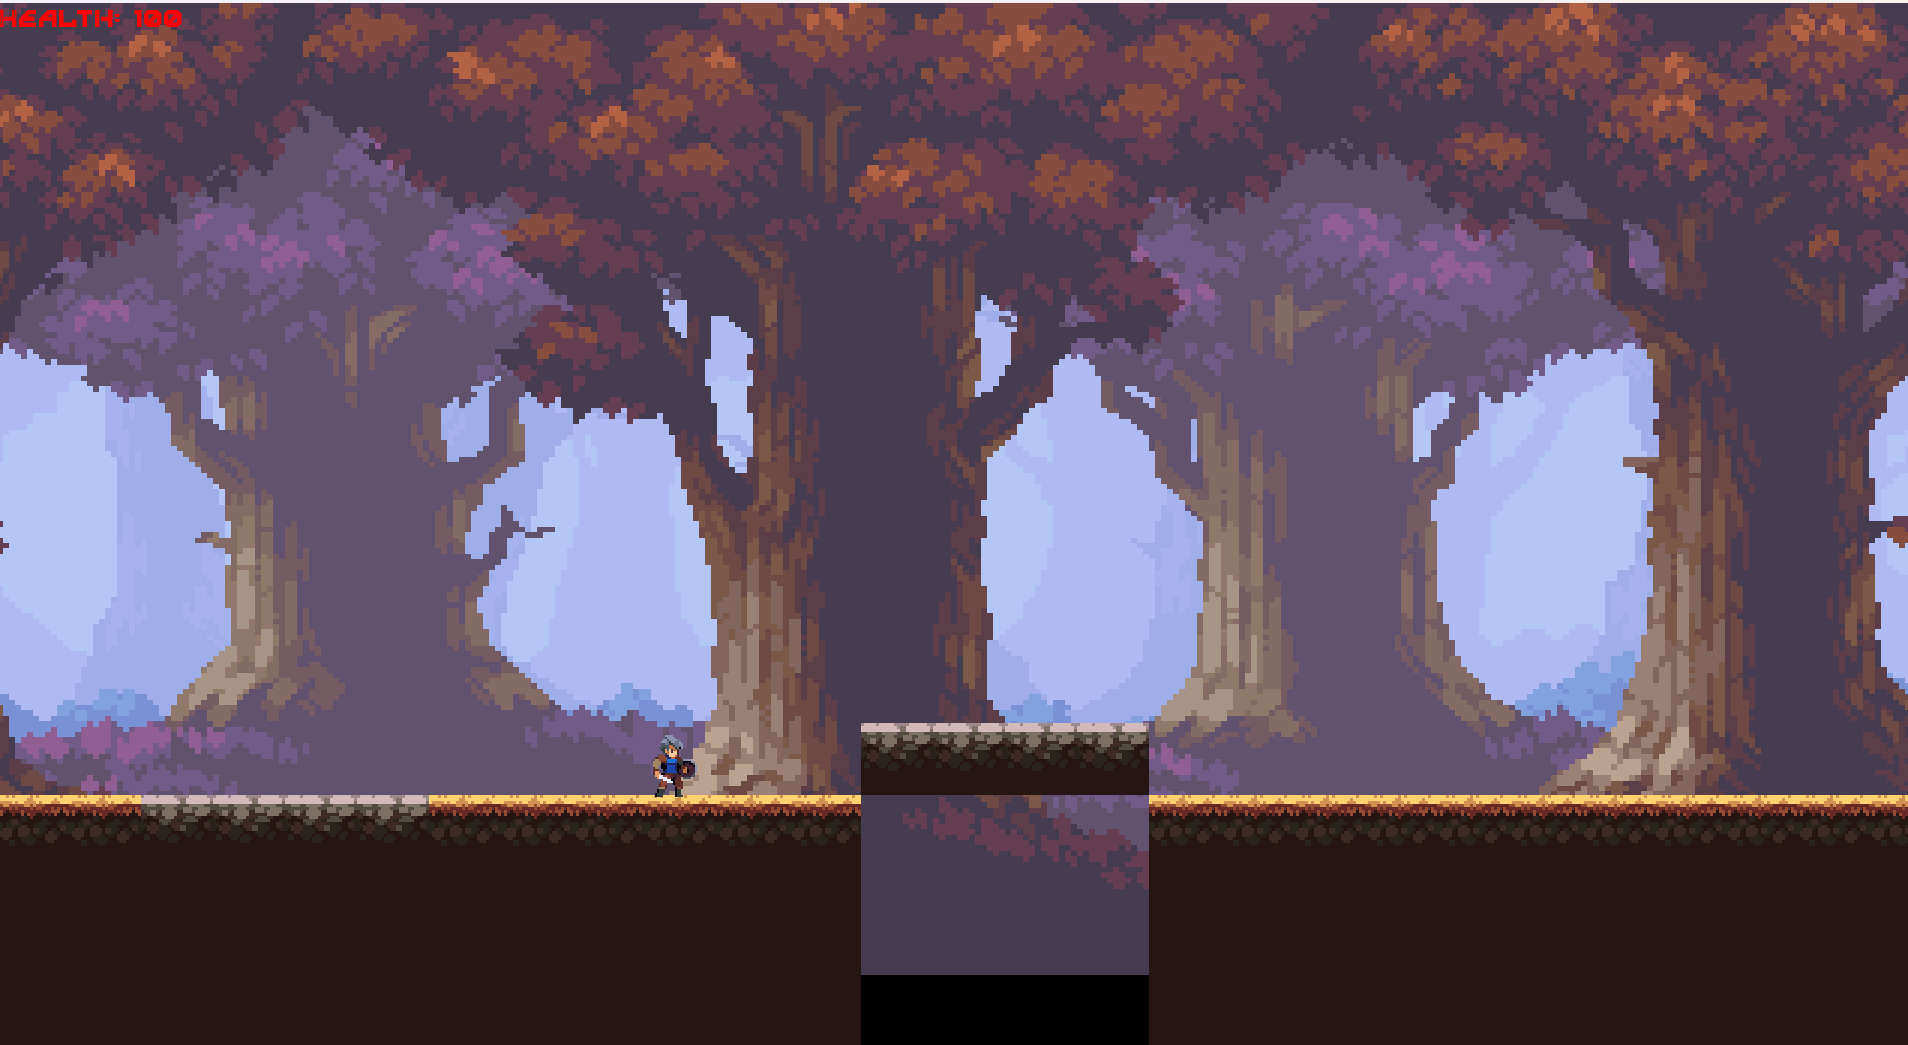
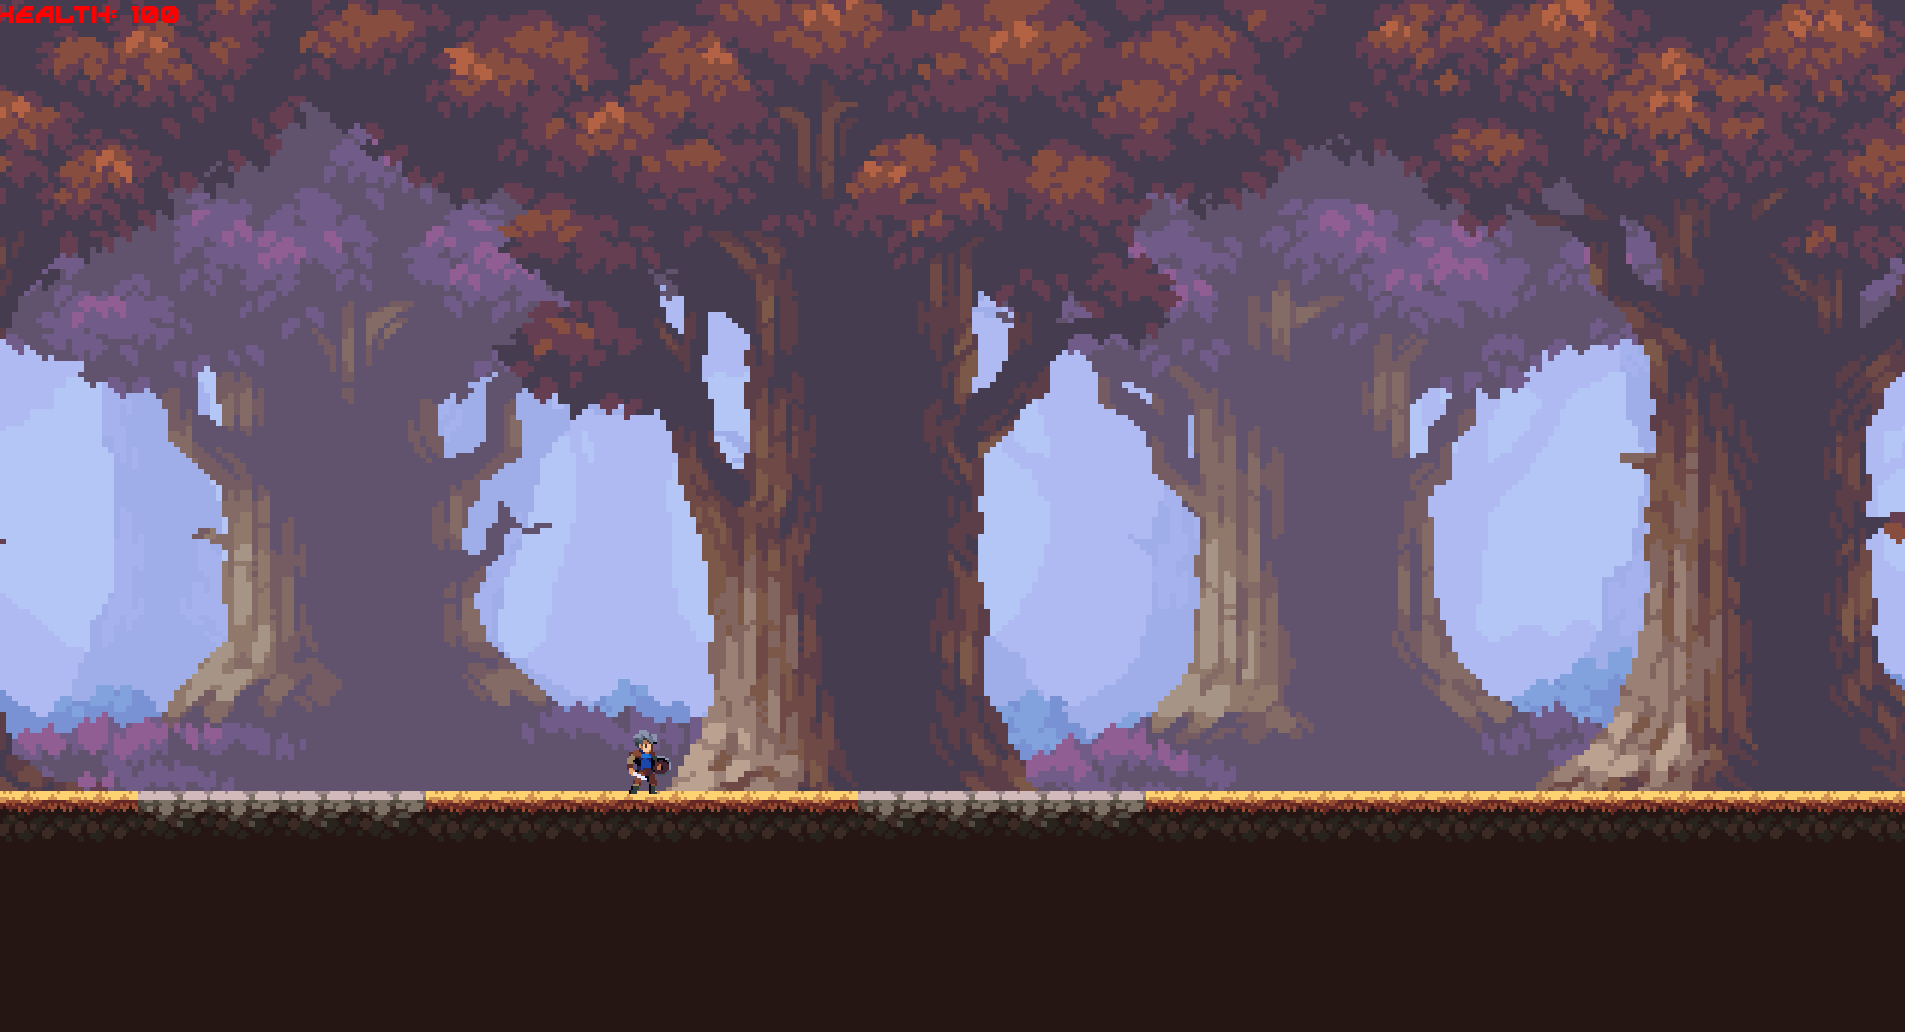
updated screenshots

diff --git a/SideScrollerShooter/LevelGenerator.cpp b/SideScrollerShooter/LevelGenerator.cpp
@@ -15,12 +15,12 @@ std::vector<std::vector<std::string>> level1  {
 	{ "BLANK", "BLANK", "BLANK", "BLANK", "BLANK", "BLANK", "BLANK", "BLANK", "BLANK", "BLANK", "BLANK", "BLANK", "BLANK", "BLANK", "BLANK", "BLANK", "BLANK", "BLANK", "BLANK", "BLANK", "BLANK", "BLANK", "BLANK", "BLANK", "BLANK", "BLANK", "BLANK", "BLANK", "BLANK", "BLANK", "BLANK", "BLANK", "BLANK", "BLANK", "BLANK", "BLANK", "BLANK", "BLANK", "BLANK", "BLANK", "BLANK", "BLANK", "BLANK", "BLANK", "BLANK", "BLANK", "BLANK", "BLANK", "BLANK", "BLANK", },
 	{ "BLANK", "BLANK", "BLANK", "BLANK", "BLANK", "BLANK", "BLANK", "BLANK", "BLANK", "BLANK", "BLANK", "BLANK", "BLANK", "BLANK", "BLANK", "BLANK", "BLANK", "BLANK", "BLANK", "BLANK", "BLANK", "BLANK", "BLANK", "BLANK", "BLANK", "BLANK", "BLANK", "BLANK", "BLANK", "BLANK", "BLANK", "BLANK", "BLANK", "BLANK", "BLANK", "BLANK", "BLANK", "BLANK", "BLANK", "BLANK", "BLANK", "BLANK", "BLANK", "BLANK", "BLANK", "BLANK", "BLANK", "BLANK", "BLANK", "BLANK", },
 	{ "BLANK", "BLANK", "BLANK", "BLANK", "BLANK", "BLANK", "BLANK", "BLANK", "BLANK", "BLANK", "BLANK", "BLANK", "BLANK", "BLANK", "BLANK", "BLANK", "BLANK", "BLANK", "BLANK", "BLANK", "BLANK", "BLANK", "BLANK", "BLANK", "BLANK", "BLANK", "BLANK", "BLANK", "BLANK", "BLANK", "BLANK", "BLANK", "BLANK", "BLANK", "BLANK", "BLANK", "BLANK", "BLANK", "BLANK", "BLANK", "BLANK", "BLANK", "BLANK", "BLANK", "BLANK", "BLANK", "BLANK", "BLANK", "BLANK", "BLANK", },
-	{ "BLANK", "BLANK", "BLANK", "BLANK",  "BLANK", "BLANK", "BLANK", "BLANK", "BLANK", "BLANK", "BLANK", "BLANK", "FLOOR_2", "FLOOR_2", "FLOOR_2", "FLOOR_2", "BLANK", "BLANK", "BLANK", "BLANK", "BLANK", "BLANK", "BLANK", "BLANK", "BLANK", "BLANK", "BLANK", "BLANK", "BLANK", "BLANK", "BLANK", "BLANK", "BLANK", "BLANK", "BLANK", "BLANK", "BLANK", "BLANK", "BLANK", "BLANK", "BLANK", "BLANK", "BLANK", "BLANK", "BLANK", "BLANK", "BLANK", "BLANK", "BLANK", "BLANK", },
+	{ "BLANK", "BLANK", "BLANK", "BLANK",  "BLANK", "BLANK", "BLANK", "BLANK", "BLANK", "BLANK", "BLANK", "BLANK", "BLANK", "BLANK", "BLANK", "BLANK", "BLANK", "BLANK", "BLANK", "BLANK", "BLANK", "BLANK", "BLANK", "BLANK", "BLANK", "BLANK", "BLANK", "BLANK", "BLANK", "BLANK", "BLANK", "BLANK", "BLANK", "BLANK", "BLANK", "BLANK", "BLANK", "BLANK", "BLANK", "BLANK", "BLANK", "BLANK", "BLANK", "BLANK", "BLANK", "BLANK", "BLANK", "BLANK", "BLANK", "BLANK", },
 	
-	{ "FLOOR_1","FLOOR_1","FLOOR_2","FLOOR_2","FLOOR_2","FLOOR_2","FLOOR_1","FLOOR_1","FLOOR_1","FLOOR_1","FLOOR_1","FLOOR_1","BLANK","BLANK","BLANK","BLANK","FLOOR_1","FLOOR_1","FLOOR_1","FLOOR_1","FLOOR_1","FLOOR_1","FLOOR_1","FLOOR_1","FLOOR_1","FLOOR_1","FLOOR_1","FLOOR_1","FLOOR_1","FLOOR_1","FLOOR_1","FLOOR_1","FLOOR_1","FLOOR_1","FLOOR_1","FLOOR_1","FLOOR_1","FLOOR_1","FLOOR_1","FLOOR_1","FLOOR_1","FLOOR_1","FLOOR_1","FLOOR_1","FLOOR_1","FLOOR_1","FLOOR_1","FLOOR_1","FLOOR_1","FLOOR_1_BORDER_RIGHT"},
-	{ "DIRT", "DIRT", "DIRT", "DIRT", "DIRT", "DIRT", "DIRT", "DIRT", "DIRT", "DIRT", "DIRT", "DIRT", "BLANK", "BLANK", "BLANK", "BLANK", "DIRT", "DIRT", "DIRT", "DIRT", "DIRT", "DIRT", "DIRT", "DIRT", "DIRT", "DIRT", "DIRT", "DIRT", "DIRT", "DIRT" , "DIRT" , "DIRT" , "DIRT" , "DIRT" , "DIRT" , "DIRT" , "DIRT" , "DIRT" , "DIRT" , "DIRT" , "DIRT" , "DIRT" , "DIRT" , "DIRT" , "DIRT" , "DIRT" , "DIRT" , "DIRT" , "DIRT" },
-	{ "DIRT", "DIRT", "DIRT", "DIRT", "DIRT", "DIRT", "DIRT", "DIRT", "DIRT", "DIRT", "DIRT", "DIRT", "BLANK", "BLANK", "BLANK", "BLANK", "DIRT", "DIRT", "DIRT", "DIRT", "DIRT", "DIRT", "DIRT", "DIRT", "DIRT", "DIRT", "DIRT", "DIRT", "DIRT", "DIRT" , "DIRT" , "DIRT" , "DIRT" , "DIRT" , "DIRT" , "DIRT" , "DIRT" , "DIRT" , "DIRT" , "DIRT" , "DIRT" , "DIRT" , "DIRT" , "DIRT" , "DIRT" , "DIRT" , "DIRT" , "DIRT" , "DIRT" },
-	{ "DIRT", "DIRT", "DIRT", "DIRT", "DIRT", "DIRT", "DIRT", "DIRT", "DIRT", "DIRT", "DIRT", "DIRT", "BLANK", "BLANK", "BLANK", "BLANK", "DIRT", "DIRT", "DIRT", "DIRT", "DIRT", "DIRT", "DIRT", "DIRT", "DIRT", "DIRT", "DIRT", "DIRT", "DIRT", "DIRT" , "DIRT" , "DIRT" , "DIRT" , "DIRT" , "DIRT" , "DIRT" , "DIRT" , "DIRT" , "DIRT" , "DIRT" , "DIRT" , "DIRT" , "DIRT" , "DIRT" , "DIRT" , "DIRT" , "DIRT" , "DIRT" , "DIRT" },
+	{ "FLOOR_1","FLOOR_1","FLOOR_2","FLOOR_2","FLOOR_2","FLOOR_2","FLOOR_1","FLOOR_1","FLOOR_1","FLOOR_1","FLOOR_1","FLOOR_1","FLOOR_2","FLOOR_2","FLOOR_2","FLOOR_2","FLOOR_1","FLOOR_1","FLOOR_1","FLOOR_1","FLOOR_1","FLOOR_1","FLOOR_1","FLOOR_1","FLOOR_1","FLOOR_1","FLOOR_1","FLOOR_1","FLOOR_1","FLOOR_1","FLOOR_1","FLOOR_1","FLOOR_1","FLOOR_1","FLOOR_1","FLOOR_1","FLOOR_1","FLOOR_1","FLOOR_1","FLOOR_1","FLOOR_1","FLOOR_1","FLOOR_1","FLOOR_1","FLOOR_1","FLOOR_1","FLOOR_1","FLOOR_1","FLOOR_1","FLOOR_1_BORDER_RIGHT"},
+	{ "DIRT", "DIRT", "DIRT", "DIRT", "DIRT", "DIRT", "DIRT", "DIRT", "DIRT", "DIRT", "DIRT", "DIRT", "DIRT", "DIRT", "DIRT", "DIRT", "DIRT", "DIRT", "DIRT", "DIRT", "DIRT", "DIRT", "DIRT", "DIRT", "DIRT", "DIRT", "DIRT", "DIRT", "DIRT", "DIRT" , "DIRT" , "DIRT" , "DIRT" , "DIRT" , "DIRT" , "DIRT" , "DIRT" , "DIRT" , "DIRT" , "DIRT" , "DIRT" , "DIRT" , "DIRT" , "DIRT" , "DIRT" , "DIRT" , "DIRT" , "DIRT" , "DIRT" },
+	{ "DIRT", "DIRT", "DIRT", "DIRT", "DIRT", "DIRT", "DIRT", "DIRT", "DIRT", "DIRT", "DIRT", "DIRT", "DIRT", "DIRT", "DIRT", "DIRT", "DIRT", "DIRT", "DIRT", "DIRT", "DIRT", "DIRT", "DIRT", "DIRT", "DIRT", "DIRT", "DIRT", "DIRT", "DIRT", "DIRT" , "DIRT" , "DIRT" , "DIRT" , "DIRT" , "DIRT" , "DIRT" , "DIRT" , "DIRT" , "DIRT" , "DIRT" , "DIRT" , "DIRT" , "DIRT" , "DIRT" , "DIRT" , "DIRT" , "DIRT" , "DIRT" , "DIRT" },
+	{ "DIRT", "DIRT", "DIRT", "DIRT", "DIRT", "DIRT", "DIRT", "DIRT", "DIRT", "DIRT", "DIRT", "DIRT", "DIRT", "DIRT", "DIRT", "DIRT", "DIRT", "DIRT", "DIRT", "DIRT", "DIRT", "DIRT", "DIRT", "DIRT", "DIRT", "DIRT", "DIRT", "DIRT", "DIRT", "DIRT" , "DIRT" , "DIRT" , "DIRT" , "DIRT" , "DIRT" , "DIRT" , "DIRT" , "DIRT" , "DIRT" , "DIRT" , "DIRT" , "DIRT" , "DIRT" , "DIRT" , "DIRT" , "DIRT" , "DIRT" , "DIRT" , "DIRT" },
 };
 
 
